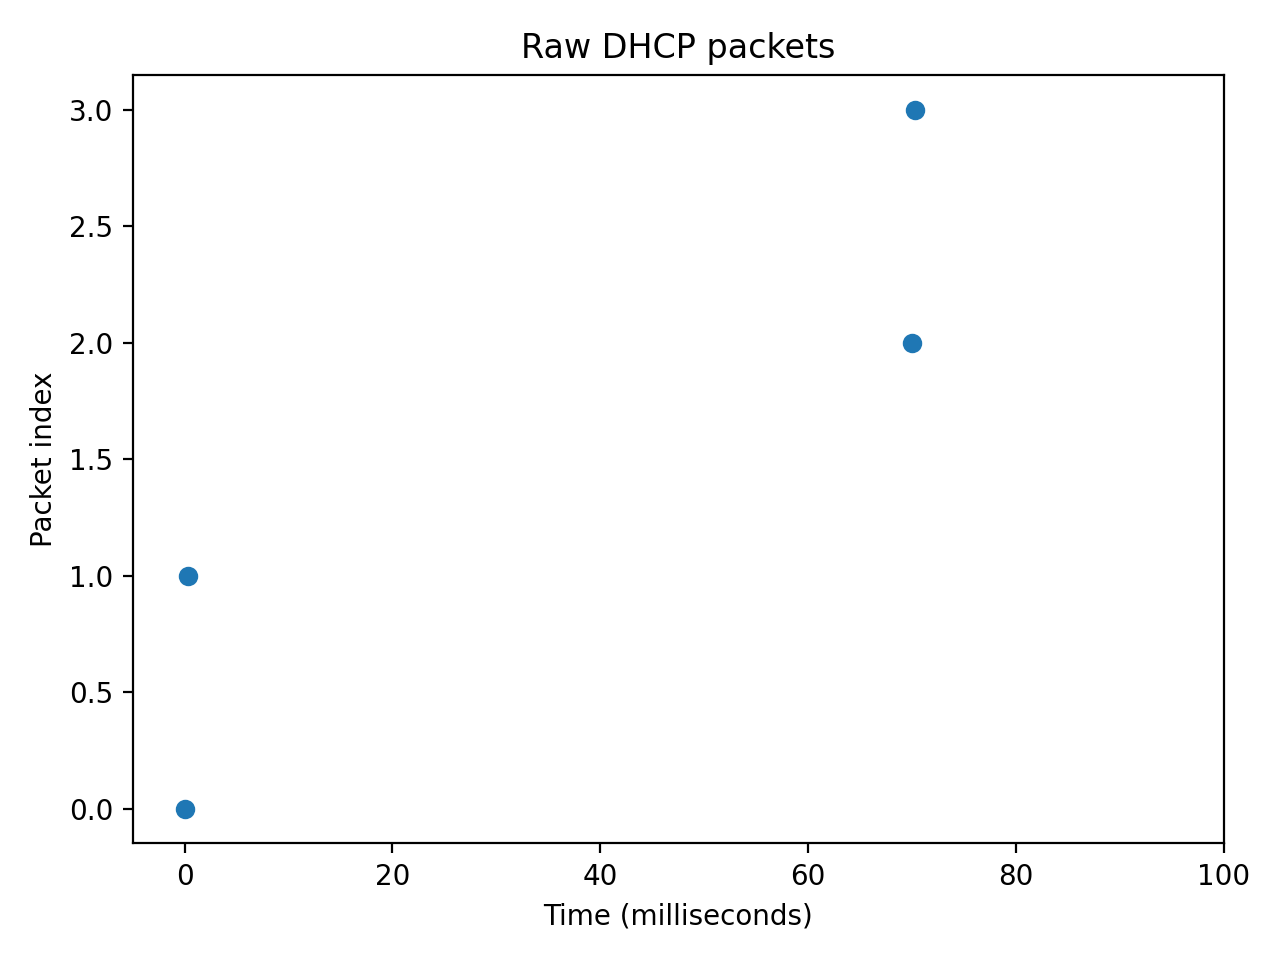
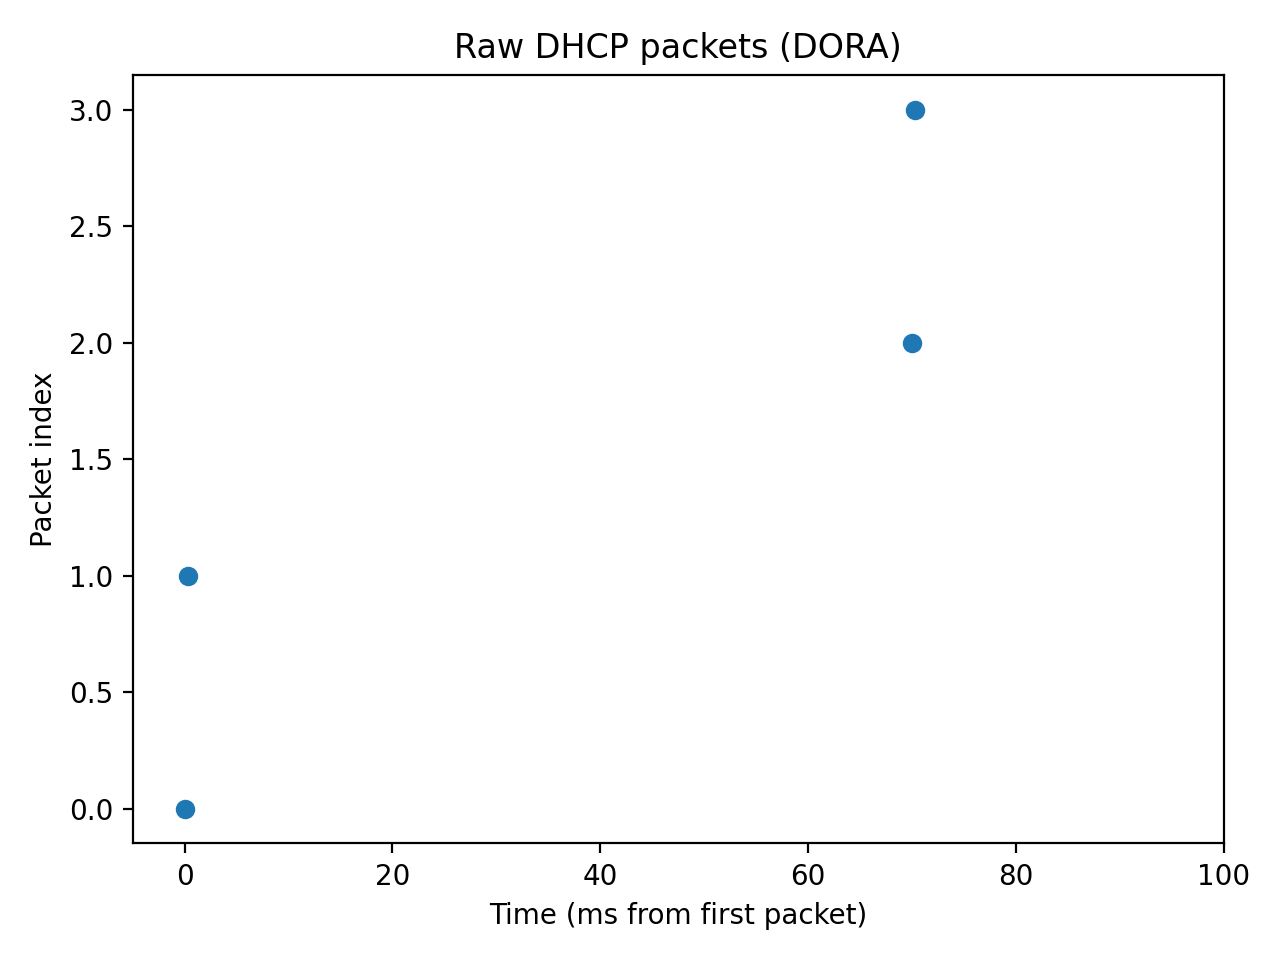
Нормально отразил DORA

Changed region(s): [[0.3438, 0.0312, 0.7188, 0.0625], [0.375, 0.9375, 0.6875, 0.9688]]

diff --git a/Александр_Андреев_ДЗ_11/main.py b/Александр_Андреев_ДЗ_11/main.py
@@ -4,194 +4,104 @@
 from pathlib import Path
 from datetime import datetime, timezone
 import asyncio
-import sys
 
 import pandas as pd
 import matplotlib.pyplot as plt
 import pyshark
 
-
-DHCP_TYPE_MAP = {
-    "1": "Discover",
-    "2": "Offer",
-    "3": "Request",
-    "4": "Decline",
-    "5": "ACK",
-    "6": "NAK",
-    "7": "Release",
-    "8": "Inform",
-}
+DHCP_TYPE_MAP = {"1": "Discover", "2": "Offer", "3": "Request", "5": "ACK", "6": "NAK"}
 
 
 def utc_now() -> str:
     return datetime.now(timezone.utc).strftime("%Y-%m-%dT%H:%M:%SZ")
 
 
-def pick_pcap(folder: Path, arg: str | None) -> Path:
-    if arg:
-        p = (folder / arg).resolve()
-        if not p.exists():
-            raise FileNotFoundError(f"File not found: {p}")
-        return p
+def pick_pcap(folder: Path) -> Path:
     files = sorted(folder.glob("*.pcapng")) + sorted(folder.glob("*.pcap"))
     if not files:
-        raise FileNotFoundError("Нет .pcapng/.pcap рядом со скриптом (или передай имя файла).")
+        raise FileNotFoundError("Нет .pcapng/.pcap рядом со скриптом.")
     return files[0]
 
 
-def to_epoch(value) -> float:
-    """epoch float OR ISO string like 2004-12-05T19:16:24.317453000Z -> epoch float"""
-    if value is None:
-        return 0.0
-
-    s = str(value).strip()
-
-    # try epoch-like
-    try:
-        return float(s)
-    except ValueError:
-        pass
-
-    # ISO-like
-    s = s.replace("Z", "+00:00")
-
-    # cut nanoseconds -> microseconds
-    if "." in s:
+def to_epoch(iso_ts: str) -> float:
+    s = str(iso_ts).strip().replace("Z", "+00:00")
+    if "." in s and "+" in s:
         head, rest = s.split(".", 1)
-        tz_pos = None
-        for sep in ("+", "-"):
-            pos = rest.find(sep)
-            if pos != -1:
-                tz_pos = pos
-                break
-        if tz_pos is not None:
-            frac = rest[:tz_pos]
-            tz = rest[tz_pos:]
-            frac = (frac[:6]).ljust(6, "0")
-            s = f"{head}.{frac}{tz}"
-        else:
-            frac = (rest[:6]).ljust(6, "0")
-            s = f"{head}.{frac}"
-
+        frac, tz = rest.split("+", 1)
+        frac = (frac[:6]).ljust(6, "0")
+        s = f"{head}.{frac}+{tz}"
     dt = datetime.fromisoformat(s)
-    if dt.tzinfo is None:
-        dt = dt.replace(tzinfo=timezone.utc)
-    return dt.timestamp()
+    return (dt if dt.tzinfo else dt.replace(tzinfo=timezone.utc)).timestamp()
+
+
+def handshake_type(pkt) -> str:
+    code = str(pkt.dhcp.option.type_tree[0].dhcp)  # DHCP Option 53
+    return DHCP_TYPE_MAP.get(code, code)
 
 
 def extract_dhcp(pcap: Path) -> pd.DataFrame:
     loop = asyncio.new_event_loop()
-
-    cap = pyshark.FileCapture(
-        str(pcap),
-        display_filter="bootp || dhcp",
-        keep_packets=False,
-        use_json=True,
-        eventloop=loop,
-    )
+    cap = pyshark.FileCapture(str(pcap), display_filter="dhcp", keep_packets=False, use_json=True, eventloop=loop)
 
     rows = []
-    try:
-        for pkt in cap:
-            layer = getattr(pkt, "bootp", None) or getattr(pkt, "dhcp", None)
-            if not layer:
-                continue
+    for pkt in cap:
+        dhcp = pkt.dhcp
+        rows.append({
+            "ts": to_epoch(pkt.sniff_timestamp),
+            "handshake": handshake_type(pkt),
+            "xid": dhcp.id,
+            "client_mac": dhcp.mac_addr,
+            "client_ip": dhcp.ip.client,
+            "your_ip": dhcp.ip.your,
+            "server_ip": dhcp.ip.server,
+        })
 
-            # time: frame_info.time_epoch may be ISO in your setup; sniff_timestamp is ISO too
-            ts_val = getattr(getattr(pkt, "frame_info", None), "time_epoch", None) or getattr(pkt, "sniff_timestamp", None)
-            ts = to_epoch(ts_val)
-
-            # Your field_names show 'type' and 'option.type' -> in pyshark it's usually 'type' / 'option_type'
-            msg_raw = getattr(layer, "type", None) or getattr(layer, "option_type", None)
-            msg_raw = str(msg_raw) if msg_raw is not None else None
-            msg_type = DHCP_TYPE_MAP.get(msg_raw, msg_raw or "Unknown")
-
-            ip_layer = getattr(pkt, "ip", None)
-
-            rows.append({
-                "ts": ts,
-                "msg_type": msg_type,
-                "src_ip": getattr(ip_layer, "src", None),
-                "dst_ip": getattr(ip_layer, "dst", None),
-                "xid": getattr(layer, "id", None),
-                "client_ip": getattr(layer, "ip_client", None),
-                "your_ip": getattr(layer, "ip_your", None),
-                "server_ip": getattr(layer, "ip_server", None),
-                "client_mac": getattr(layer, "hw_mac_addr", None),
-            })
-    finally:
-        cap.close()
-        loop.close()
-
+    cap.close()
+    loop.close()
     return pd.DataFrame(rows)
-
-
-def save_outputs(folder: Path, pcap: Path, df: pd.DataFrame) -> None:
-    df.to_csv(folder / "dhcp_events.csv", index=False)
-
-    log_lines = [
-        f"[{utc_now()}] PCAP: {pcap.name}",
-        f"DHCP/BOOTP events: {len(df)}",
-    ]
-
-    if df.empty:
-        log_lines.append("DF пуст: pyshark не извлёк события (но tshark их видит).")
-        (folder / "triage_log.txt").write_text("\n".join(log_lines), encoding="utf-8")
-        return
-
-    # Bar: message types
-    stats = df["msg_type"].fillna("Unknown").value_counts()
-
-    plt.figure()
-    plt.bar(stats.index.astype(str), stats.values)
-    plt.xlabel("DHCP message type")
-    plt.ylabel("Count")
-    plt.title("DHCP message type distribution")
-    plt.tight_layout()
-    plt.savefig(folder / "dhcp_type_stats.png", dpi=200)
-    plt.close()
-
-    # Line: events per milliseconds (relative)
-    plt.figure()
-
-    t_rel = (df["ts"] - df["ts"].min()) * 1000  # ms
-    packet_index = range(len(df))
-
-    plt.scatter(t_rel, packet_index)
-
-    plt.xlim(-5, 100)  # ← ВОТ ЭТО магия масштаба
-
-    plt.xlabel("Time (milliseconds)")
-    plt.ylabel("Packet index")
-    plt.title("Raw DHCP packets")
-
-    plt.tight_layout()
-    plt.savefig(folder / "dhcp_activity.png", dpi=200)
-    plt.close()
-
-    log_lines += [
-        "",
-        "Message type counts:",
-        *[f"  {k}: {v}" for k, v in stats.to_dict().items()],
-        "",
-        "Saved files:",
-        "  dhcp_events.csv",
-        "  dhcp_type_stats.png",
-        "  dhcp_activity.png",
-        "  triage_log.txt",
-    ]
-    (folder / "triage_log.txt").write_text("\n".join(log_lines), encoding="utf-8")
 
 
 def main() -> None:
     folder = Path(__file__).resolve().parent
-    arg = sys.argv[1] if len(sys.argv) > 1 else None
+    pcap = pick_pcap(folder)
 
-    pcap = pick_pcap(folder, arg)
     df = extract_dhcp(pcap)
-    save_outputs(folder, pcap, df)
+    df.to_csv(folder / "dhcp_events.csv", index=False)
 
-    print("OK. Saved in:", folder)
+    # Bar: распределение Discover/Offer/Request/ACK
+    stats = df["handshake"].value_counts()
+    plt.figure()
+    plt.bar(stats.index.astype(str), stats.values)
+    plt.yticks(range(0, 2, 1))
+    plt.xlabel("DHCP handshake type (Option 53)")
+    plt.ylabel("Count")
+    plt.title("DHCP DORA distribution")
+    plt.tight_layout()
+    plt.savefig(folder / "dhcp_type_stats.png", dpi=200)
+    plt.close()
+
+    # Raw: 4 точки (по пакетам)
+    plt.figure()
+    t_rel = (df["ts"] - df["ts"].min()) * 1000
+    plt.scatter(t_rel, range(len(df)))
+    plt.xlim(-5, max(100, float(t_rel.max()) + 10))
+    plt.xlabel("Time (ms from first packet)")
+    plt.ylabel("Packet index")
+    plt.title("Raw DHCP packets (DORA)")
+    plt.tight_layout()
+    plt.savefig(folder / "dhcp_activity.png", dpi=200)
+    plt.close()
+
+    # Log
+    lines = [
+        f"[{utc_now()}] PCAP: {pcap.name}",
+        f"DHCP packets: {len(df)}",
+        "Counts:",
+        *[f"  {k}: {v}" for k, v in stats.to_dict().items()],
+    ]
+    (folder / "triage_log.txt").write_text("\n".join(lines), encoding="utf-8")
+
+    print("OK")
 
 
 if __name__ == "__main__":
